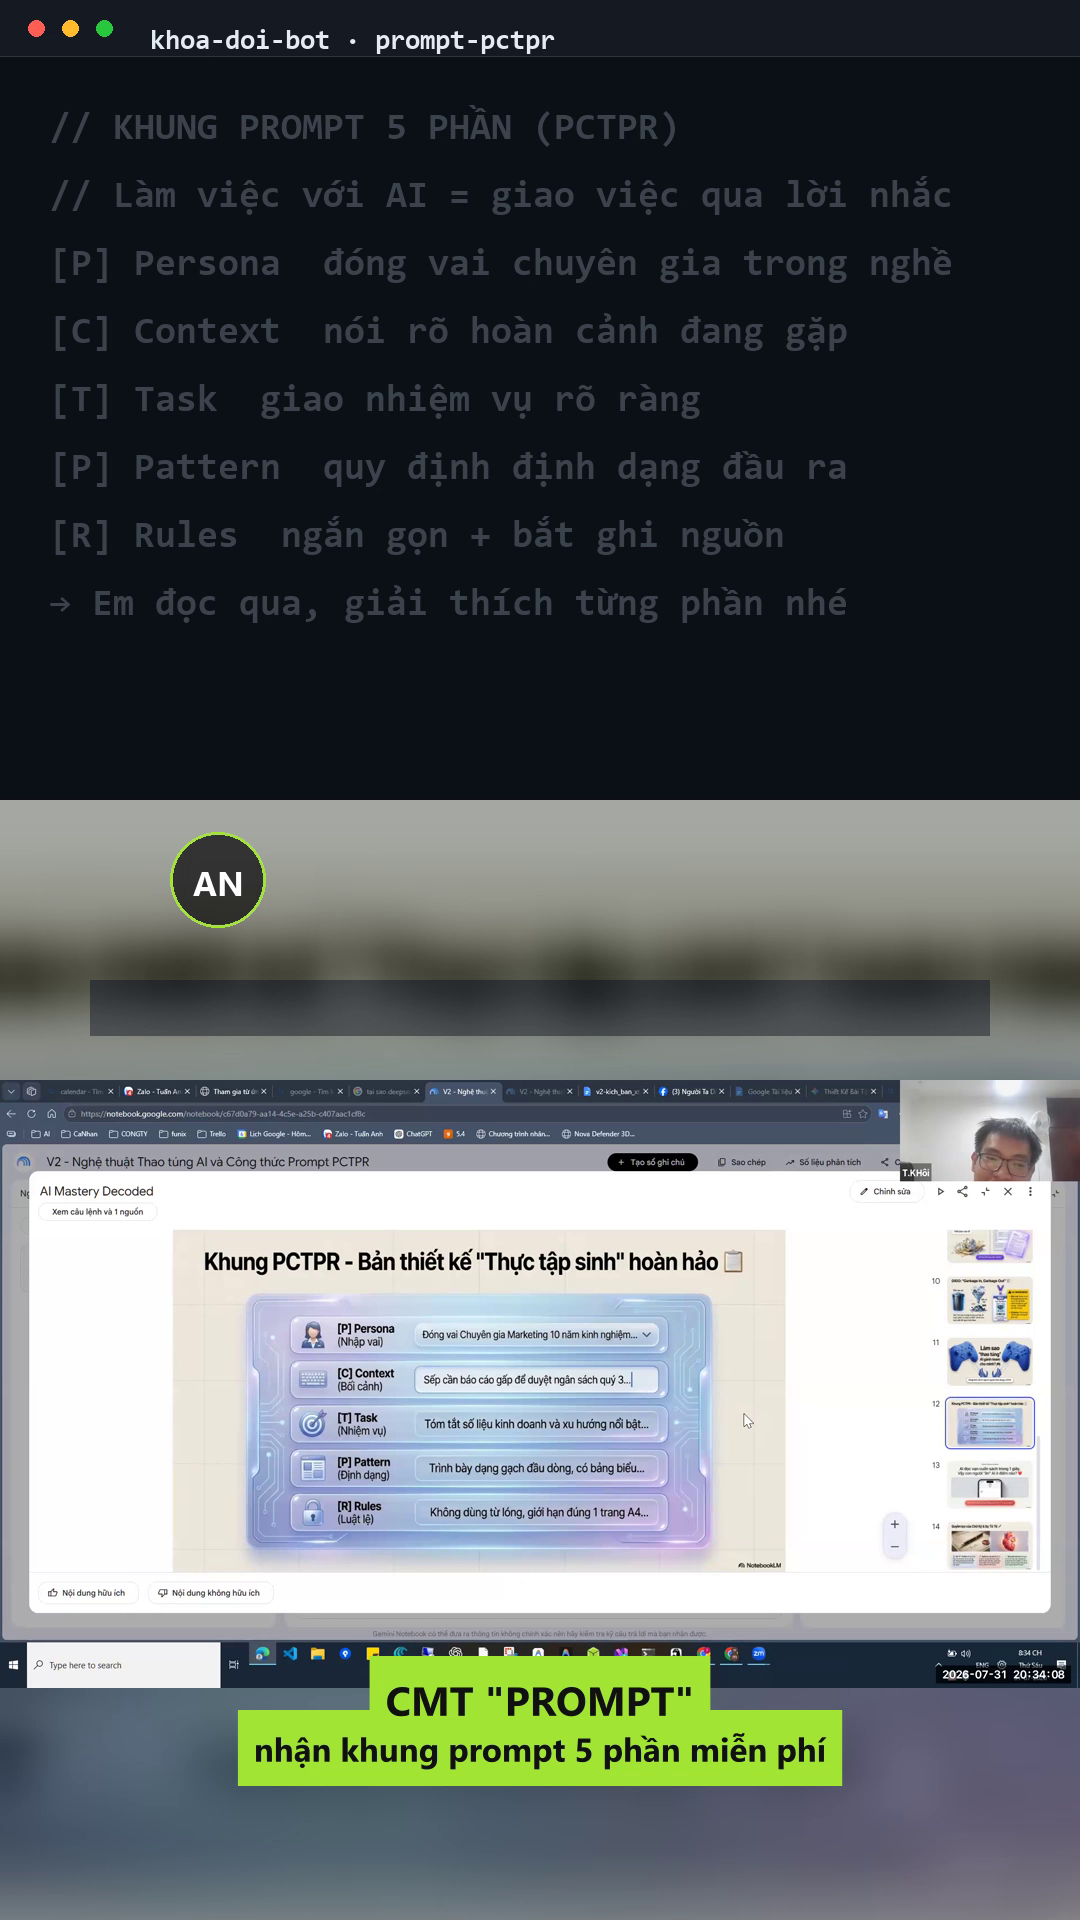
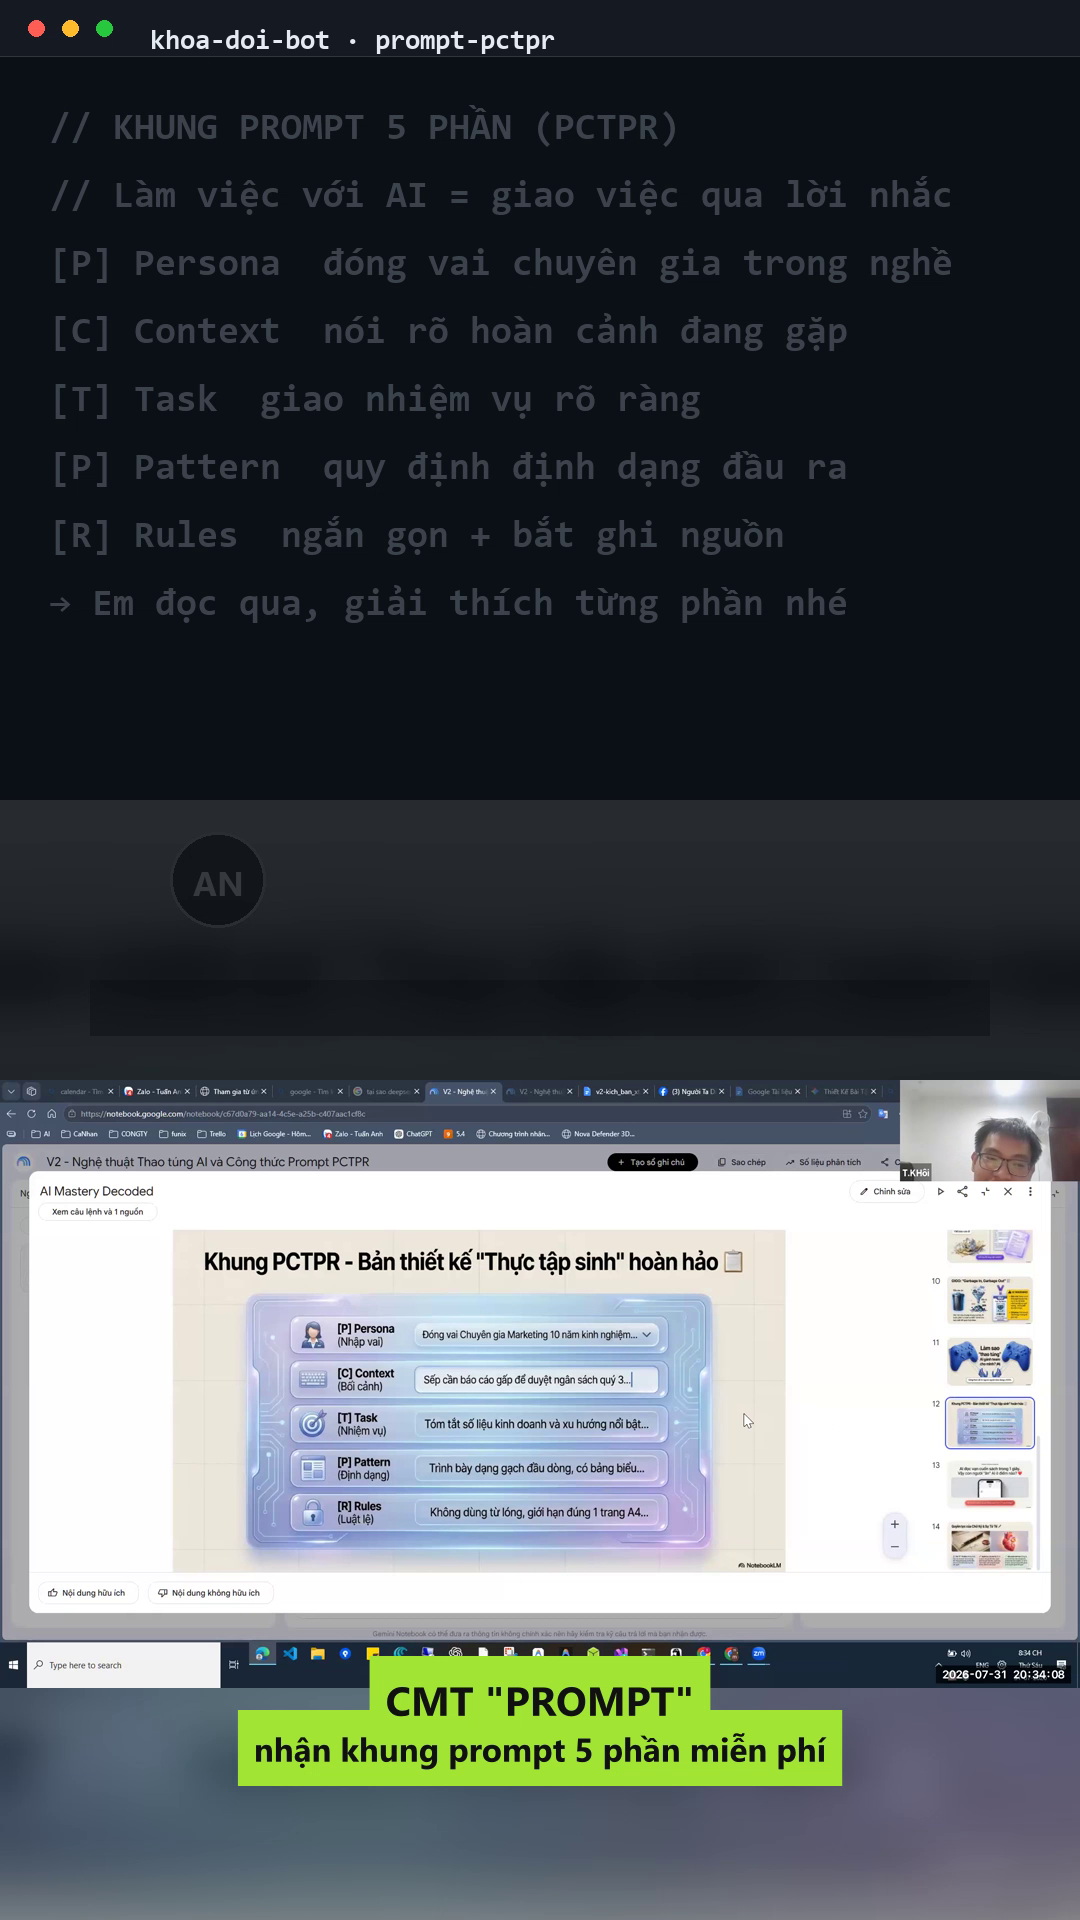
E4 mid_clean: diem 92 (best) — nen phẳng dải giữa, waveform nổi

Changed region(s): [[0.0, 0.4062, 1.0, 0.5625]]

diff --git a/render_code_variant.py b/render_code_variant.py
@@ -230,6 +230,11 @@ def main() -> int:
         chain += f"[{last}][3:v]overlay=170:832[c4];"
         last = "c4"
     audio_tail = "[0:a]loudnorm=I=-16:TP=-1.5:LRA=11[aout]"
+    mid_clean = bool(v.get("mid_clean"))
+    if mid_clean:
+        # phủ nền tối phẳng dải giữa (800-1080): hết chữ nhòe từ blur bg
+        chain += f"[{last}]drawbox=x=0:y=800:w=1080:h=280:color=0x0D1117@0.82:t=fill[mc];"
+        last = "mc"
     if show_wave:
         # waveform trắng theo nhịp giọng nói — trong dải mờ giữa code và footage
         wave_y = int(v.get("waveform_y", 986))

diff --git a/diem/diem_log.md b/diem/diem_log.md
@@ -8,7 +8,8 @@ Metric duy nhất: rubric.md (100 điểm). Best hiện tại ghi đầu bảng.
 | E1 | Badge "AN" tròn viền lime mép trái pill | 87 | ✔ | 87 |
 | E2 | Ghost lines + highlight dòng đang gõ | 90 | ✔ | 90 |
 | E3 | Waveform đè slide footage (y=1520) | 90 | ✗ discard | 90 |
-| E3b | Waveform vào dải mờ giữa (y=986) | **91** | ✔ best | **91** |
+| E3b | Waveform vào dải mờ giữa (y=986) | 91 | ✔ | 91 |
+| E4 | Nền đặc #0d1117 dải giữa — hết chữ nhòe | **92** | ✔ best | **92** |
 
 ## E0 — Baseline: 86 điểm (tag v0)
 
@@ -47,11 +48,18 @@ Chấm trên diem/E0_baseline/ (ffprobe: 1080x1920, 50.00s — chuẩn).
 - E3b: dời y=986 vào dải mờ — mục 8: 9 → 10 (4 lớp nhịp: typing+highlight+ghost+waveform).
 - **Cải tiến đặc biệt đầu tiên → output/best.mp4** (Telegram chưa cấu hình).
 
+## E4 — Mid clean: 92 điểm (tag v4, decode kiểm tra sạch)
+
+- Mục 7: 9 → 10 (drawbox @0.82 phủ blur bg; chữ nhòe chỉ còn vệt cực mờ).
+- Ghi chú vận hành: file E4 hỏng NAL khi lần render trước bị cancel giữa chừng
+  → luật: vòng bị cancel phải xóa output trước khi render lại cùng tên.
+- Bảng điểm chi tiết hiện: 1:10 2:10 3:7 4:10 5:9 6:10 7:10 8:10 9:8 10:8.
+
 ## Backlog vòng kế (1 vòng = 1 cải tiến)
 
 - E1: badge "AN" tròn bên trái pill + nền pill đặc hơn (so mẫu fb2) — mục 2
 - E3: [ĐANG LÀM] waveform audio thật (showwaves) trước CTA — mục 8
-- E4: [ĐANG LÀM] nền đặc vùng mờ giữa, xử chữ nhòe — mục 7
+- E5: [ĐANG LÀM] nhấc CTA lên khỏi chrome video (MarginV 150→185) — mục 5
 - E5: CTA nhấp nháy nhẹ \f + viền pill tương phản — mục 5, 8
 - E6: tint viền phân tách 3 tầng, xử dải blur bẩn — mục 7
 - E7: auto-sync code_lines từ cue VTT — mục 3, 10
